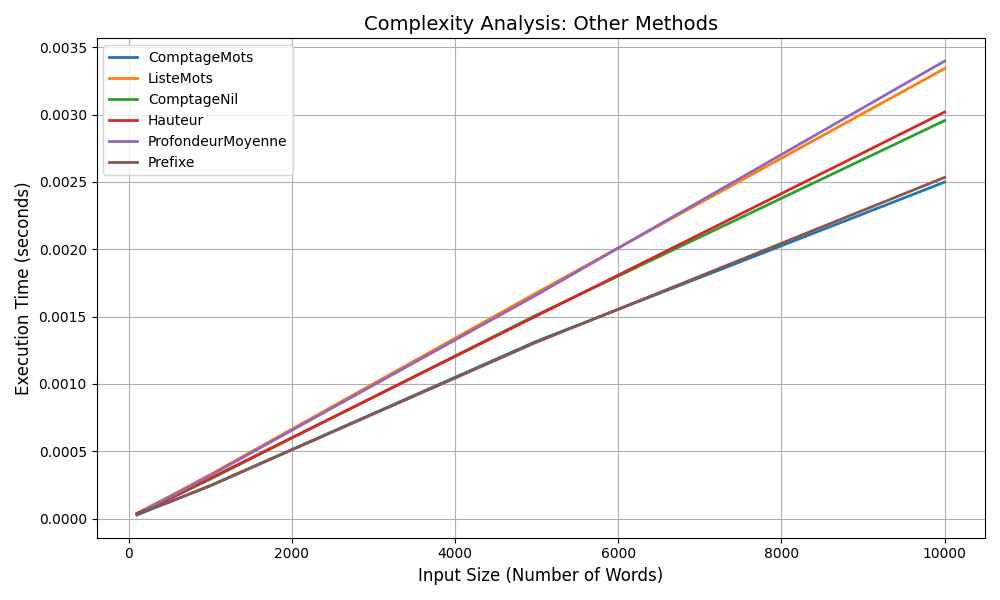
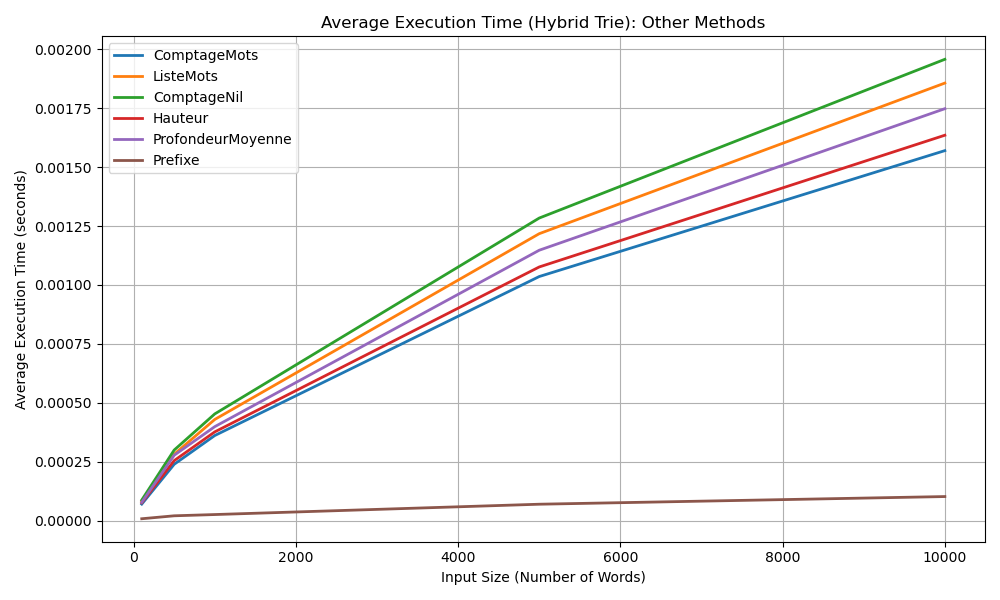
complexite

diff --git a/compare/complexite_hybrid.py b/compare/complexite_hybrid.py
@@ -9,6 +9,7 @@ sys.path.append("../Hybrid_trie")  # 替换为 hybrid_trie 文件所在的实际
 from hybrid_trie import HybridTrie
 
 
+# 定义超时异常
 class TimeoutException(Exception):
     pass
 
@@ -18,6 +19,7 @@ def timeout_handler(signum, frame):
 signal.signal(signal.SIGALRM, timeout_handler)
 
 def safe_execution(func, *args, timeout=10):
+    """安全执行函数，防止超时"""
     try:
         signal.alarm(timeout)
         result = func(*args)
@@ -26,11 +28,15 @@ def safe_execution(func, *args, timeout=10):
     except TimeoutException:
         return float('inf')
 
+def load_words_from_file(file_path, limit):
+    """从文件中读取指定数量的单词"""
+    with open(file_path, 'r', encoding='utf-8') as file:
+        content = file.read().split()
+        return content[:limit]
 
-def test_methods(input_size):
+def test_methods(words):
+    """测试 Hybrid Trie 的所有方法"""
     hybrid_trie = HybridTrie()
-    words = [f"word{i}" for i in range(input_size)]
-
     results = {
         "Recherche": 0,
         "ComptageMots": 0,
@@ -42,46 +48,47 @@ def test_methods(input_size):
         "Suppression": 0,
     }
 
+    # 插入单词到 Hybrid Trie
     for word in words:
         hybrid_trie.insert(word)
 
-    # Recherche (搜索)
+    # 搜索
     start_time = time.time()
     for word in words:
         safe_execution(hybrid_trie.recherche, word, timeout=5)
     results["Recherche"] = time.time() - start_time
 
-    # ComptageMots (统计单词数量)
+    # 统计单词数量
     start_time = time.time()
     safe_execution(hybrid_trie.comptageMots, hybrid_trie.root, timeout=5)
     results["ComptageMots"] = time.time() - start_time
 
-    # ListeMots (列出所有单词)
+    # 列出所有单词
     start_time = time.time()
     safe_execution(hybrid_trie.liste_mots, timeout=5)
     results["ListeMots"] = time.time() - start_time
 
-    # ComptageNil (统计空指针)
+    # 统计空指针
     start_time = time.time()
     safe_execution(hybrid_trie.comptage_nil, timeout=5)
     results["ComptageNil"] = time.time() - start_time
 
-    # Hauteur (计算高度)
+    # 树高度
     start_time = time.time()
     safe_execution(hybrid_trie.hauteur, timeout=5)
     results["Hauteur"] = time.time() - start_time
 
-    # ProfondeurMoyenne (计算平均深度)
+    # 平均深度
     start_time = time.time()
     safe_execution(hybrid_trie.profondeur_moyenne, timeout=5)
     results["ProfondeurMoyenne"] = time.time() - start_time
 
-    # Prefixe (以指定前缀开头的单词数量)
+    # 前缀搜索
     start_time = time.time()
-    safe_execution(hybrid_trie.prefixe, "word", timeout=5)
+    safe_execution(hybrid_trie.prefixe, "a", timeout=5)
     results["Prefixe"] = time.time() - start_time
 
-    # Suppression (删除所有单词)
+    # 删除所有单词
     start_time = time.time()
     for word in words:
         safe_execution(hybrid_trie.suppression, word, timeout=5)
@@ -89,46 +96,61 @@ def test_methods(input_size):
 
     return results
 
-
+# 初始化变量
 input_sizes = [100, 500, 1000, 5000, 10000]
-all_results = {method: [] for method in ["Recherche", "ComptageMots", "ListeMots", "ComptageNil", "Hauteur", "ProfondeurMoyenne", "Prefixe", "Suppression"]}
+shakespeare_folder = "./Shakespeare"
+all_results = {method: [0] * len(input_sizes) for method in ["Recherche", "ComptageMots", "ListeMots", "ComptageNil", "Hauteur", "ProfondeurMoyenne", "Prefixe", "Suppression"]}
+file_count = 0
 
-for input_size in input_sizes:
-    print(f"Testing with input size: {input_size}")
-    results = test_methods(input_size)
-    for method, time_taken in results.items():
-        all_results[method].append(time_taken)
-# 创建结果保存路径
+# 遍历文件并测试
+for filename in os.listdir(shakespeare_folder):
+    file_path = os.path.join(shakespeare_folder, filename)
+    if os.path.isfile(file_path):
+        print(f"Processing file: {filename}")
+        file_count += 1
+
+        for idx, input_size in enumerate(input_sizes):
+            words = load_words_from_file(file_path, input_size)
+            if not words:
+                continue
+            results = test_methods(words)
+
+            # 累加结果
+            for method in all_results.keys():
+                all_results[method][idx] += results[method]
+
+# 取平均值
+for method in all_results.keys():
+    all_results[method] = [time / file_count for time in all_results[method]]
+
+# 结果保存路径
 result_img_folder = "./result_img/complexity"
 os.makedirs(result_img_folder, exist_ok=True)
 
-# 折线图 1: Recherche 和 Suppression
+# 绘制图表：Recherche 和 Suppression
 plt.figure(figsize=(10, 6))
 for method in ["Recherche", "Suppression"]:
     plt.plot(input_sizes, all_results[method], label=method, linewidth=2)
-
-plt.title("Complexity Analysis: Recherche and Suppression", fontsize=14)
-plt.xlabel("Input Size (Number of Words)", fontsize=12)
-plt.ylabel("Execution Time (seconds)", fontsize=12)
+plt.title("Average Execution Time (Hybrid Trie): Recherche and Suppression")
+plt.xlabel("Input Size (Number of Words)")
+plt.ylabel("Average Execution Time (seconds)")
 plt.legend()
 plt.grid()
 plt.tight_layout()
-plt.savefig(os.path.join(result_img_folder, "complexity_Hybrid_recherche_suppression_Patricia.png"))
-
+plt.savefig(os.path.join(result_img_folder, "complexity_Hybrid_recherche_suppression.png"))
 plt.show()
 
-# 折线图 2: 其他方法
+# 绘制图表：其他方法
 plt.figure(figsize=(10, 6))
 for method in ["ComptageMots", "ListeMots", "ComptageNil", "Hauteur", "ProfondeurMoyenne", "Prefixe"]:
     plt.plot(input_sizes, all_results[method], label=method, linewidth=2)
-
-plt.title("Complexity Analysis: Other Methods", fontsize=14)
-plt.xlabel("Input Size (Number of Words)", fontsize=12)
-plt.ylabel("Execution Time (seconds)", fontsize=12)
+plt.title("Average Execution Time (Hybrid Trie): Other Methods")
+plt.xlabel("Input Size (Number of Words)")
+plt.ylabel("Average Execution Time (seconds)")
 plt.legend()
 plt.grid()
 plt.tight_layout()
 plt.savefig(os.path.join(result_img_folder, "complexity_Hybrid_other_methods.png"))
 plt.show()
 
-print("Complexity analysis completed and plots saved.")
+print("Hybrid Trie Average Execution analysis completed and plots saved.")
